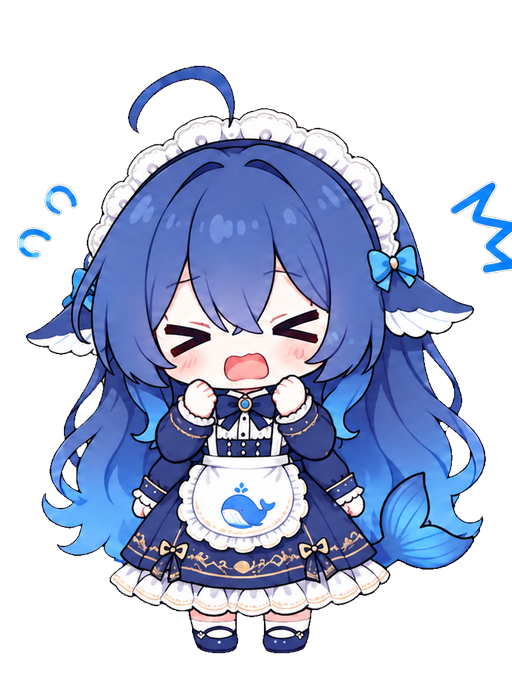
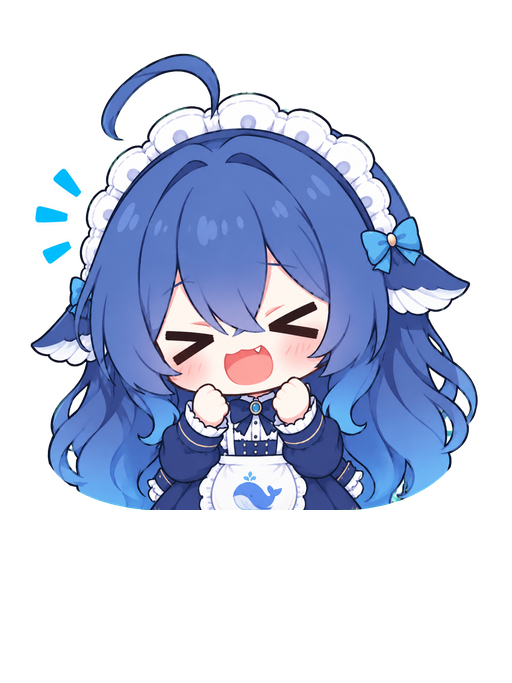
换掉拖拽差分：用新的抓狂立绘
- assets/drag.png 换成新素材（绿幕抠像后按脸对齐缩放：脸的位置和大小
  跟其它 12 张保持一致，下半身是空的，因为新素材只画到腰）
- client.js: ASSET_VERSION 8 -> 9（不加版本号浏览器不会重新取图）
- README: 素材总大小 5.0MB -> 4.8MB，已知限制里写明 drag 没有腿

diff --git a/client.js b/client.js
@@ -31,7 +31,7 @@ window.__ModuleLoader__.load({
 
 		const BASE = "/dsh-pet/sprite/";
 		/* ⚠ 换了素材必须 +1，否则浏览器会拿缓存里的旧图 */
-		const ASSET_VERSION = 8;
+		const ASSET_VERSION = 9;
 		const spriteUrl = (id) => BASE + id + ".png?v=" + ASSET_VERSION;
 		const MIND_URL = "/dsh-pet/__mind";
 		const MIND_POLL_MS = 1000;

diff --git a/README.md b/README.md
@@ -861,8 +861,10 @@ Copy-Item -LiteralPath "$prof\package.json.bak-20261009-230801" -Destination "$p
 - 立绘活在 DSH 窗口内的 `shell.overlay` 浮层，**无法创建独立置顶窗口**——
   宿主没有暴露任何 window/Electron 能力，所以"爬到桌面上"做不到。
 - 哈欠 / 揉眼睛 / 伸懒腰目前是 CSS 拉伸近似，不是真动作帧。
-- 13 张素材共约 5.0MB，首次加载略重（之后有版本号缓存）。
-- 素材改过两次（换 `drag` 差分、抠呆毛内圈白块）。要退回旧图：直接覆盖 `assets/`，
+- 13 张素材共约 4.8MB，首次加载略重（之后有版本号缓存）。
+- **`drag.png` 只画到腰**（没有腿）—— 它按"脸的大小和位置跟别的立绘对齐"缩放，
+  所以抓起来的瞬间脸不动，但下半身是空的。要腿就得要一张全身的抓狂差分。
+- 素材改过三次（两次换 `drag` 差分、一次抠呆毛内圈白块）。要退回旧图：直接覆盖 `assets/`，
   再把 `client.js` 的 `ASSET_VERSION` 加 1（**不加版本号，浏览器不会重新取图**）。
 
 ## License
